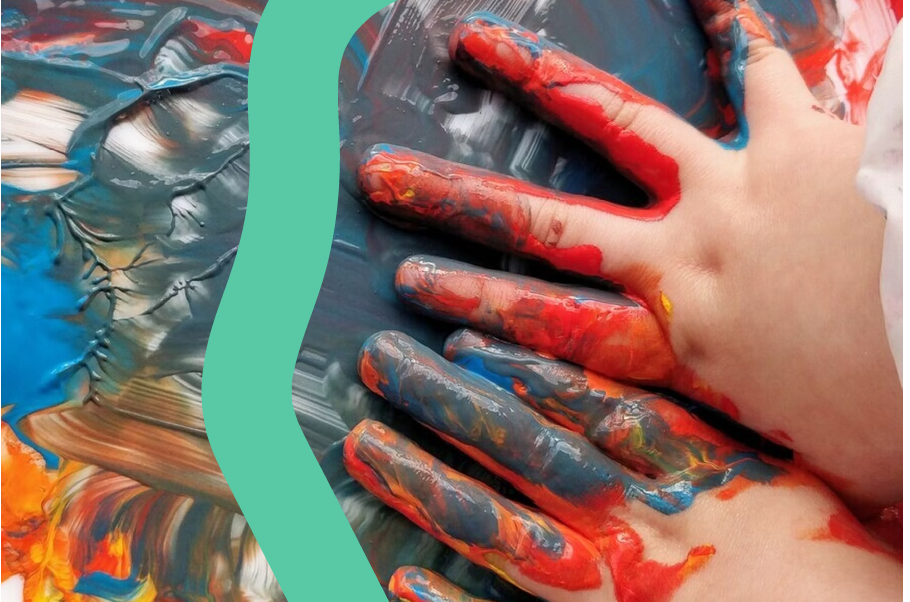
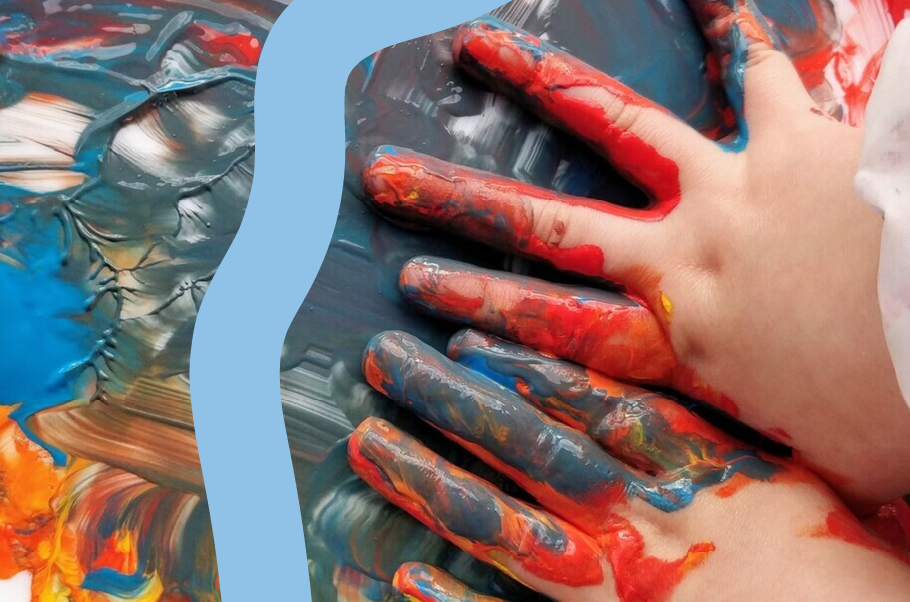
update colors

diff --git a/nuxt-ccpl/assets/home/news.css b/nuxt-ccpl/assets/home/news.css
@@ -56,7 +56,7 @@
 .news-card h3{
     font-size: 1.5rem;
     margin-top: 1.5rem;
-    color: #005387;
+    color: #444444;
     padding: 0 2rem;
     font-weight: 600;
     letter-spacing: 1.2px;
@@ -94,15 +94,17 @@
     letter-spacing: 1.5px;
     cursor: pointer;
     color: #ffffff;
+    border: 2px solid #005387;
     transition: transform .3s ease-in-out;
-    background-color: #991653;
+    background-color: #005387;
     padding: 0.7rem;
     border-radius: 6px;
     margin-top: 1.3rem;
 }
 
 .news-card a:hover{
-    text-decoration: underline;
+    background-color: #005387;
+    color: #ffffff;
     transform: translateX(10px);
 
 }

diff --git a/nuxt-ccpl/assets/home/aboutus.css b/nuxt-ccpl/assets/home/aboutus.css
@@ -30,16 +30,17 @@
 }
 
 .aboutus a{
-    color: #ffffff;
+    color: #005387;
     letter-spacing: 1.2px;
-    background-color: #005387;
+    background-color: #ffffff;
     padding: 0.7rem;
-    border: 1px solid #005387;
+    border: 2px solid #005387;
     border-radius: 6px;
 }
 
 .aboutus a:hover{
-    text-decoration: underline;
+    background-color: #005387;
+    color: #ffffff;
 }
 
 @media all and (max-width: 1366px){

diff --git a/nuxt-ccpl/assets/header/navinfos.css b/nuxt-ccpl/assets/header/navinfos.css
@@ -16,7 +16,7 @@
 }
 
 #infosbutton:hover{
-    background-color: #A90F4A;
+    background-color: #005387;
     color: #ffffff;
     transition: .1s ease-out;
 }
@@ -24,9 +24,9 @@
 
 #infosbutton{
     background-color: #ffffff;
-    color: #A90F4A;
+    color: #005387;
     text-decoration: inherit;
-    border: 1px solid #A90F4A;
+    border: 2px solid #005387;
     transition: .1s ease-out;
     padding: .3rem;
 }

diff --git a/nuxt-ccpl/assets/navbar/navbutton.css b/nuxt-ccpl/assets/navbar/navbutton.css
@@ -37,7 +37,7 @@ button:hover{
     background-color: transparent;
     /*border: 2px solid #FF4D00;
     color: #FF4D00;*/
-    border: 2px solid #A90F4A;
-    color: #A90F4A;
+    border: 2px solid #005387;
+    color: #005387;
     transition: all .2s ease-out;
 }
